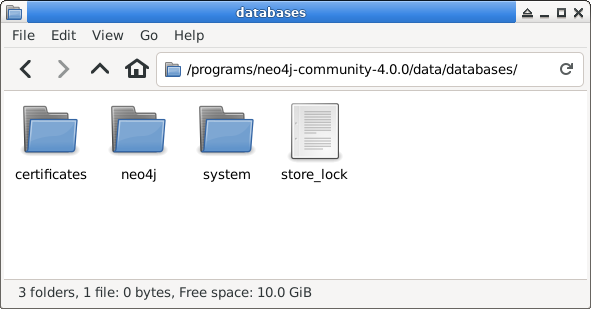
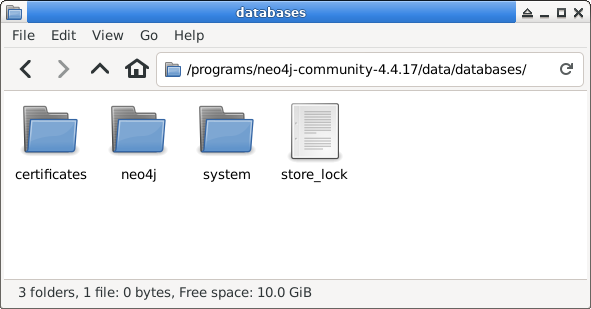
update database migration documentation page, to document the improved steps of the migration process

Changed region(s): [[0.6091, 0.2039, 0.8832, 0.2621]]

diff --git a/admin/en/src/database-migration/README.md b/admin/en/src/database-migration/README.md
@@ -17,12 +17,31 @@ The focus will be on the **sequential migration** process available for the comm
 
 Following the sequential patch migrate Neo4j deployment from 3.5.lastest to 4.0.lastest then sequentially upgrade it to 4.1.lastest, 4.2.lastest, 4.3.lastest and 4.4.lastest
 
-#### Migration from Neo4j 3.5.5 to 3,5,12
+#### Migration from Neo4j 3.5.5 to 3.5.12
 
 During the migration process, we will work with the following directories:
 
 - **`$Neo4j_HOME`**: Refers to the directory of the currently installed Neo4j version (e.g., version 3.5.5).
 - **`$New_Neo4j_HOME`**: Refers to the directory of the new Neo4j version to which the system will be upgraded (e.g., version 3.5.12).
+
+
+##### Prepare Neo4j database 3.5.5
+
+Debido a incompatibilidades en el proveedor de indices de Neo4j entre las versiones 3.5.5 y 3.5.12, antes de realizar la migración los indices deben ser eliminados y creados nuevamente una vez realice la migración para ello verifique los indices actuales. Inicie neo4j server running the following command: (**$Neo4j_HOME/bin/neo4j start**). This command starts the neo4j server, the server will be accessible at [http://localhost:7474](http://localhost:7474). 
+
+En la consola de Neo4j ejecute el comando *:schema*, el cual le permitirá visualizar los indices actualmente creados en la base de datos.
+
+| ![Show Index](images/show-index-v3.png) |
+|:--:|
+| ***Figure 1.** Show Index command* |
+
+Realice una copia de los indices actuales y preceda a eliminarlos ejecutando el comando 
+**DROP INDEX ON :**`node_label`**(**`property`**)**;
+
+Por ejemplo para eliminar el indice de la propiedad name del nodo con label clase ejecute
+**DROP INDEX ON :**`classes`**(**`name`**)**
+
+##### Migrate Database
 
 We start the migration from neo4j-community-3.5.5 to 3.5.12, this due to compatibility issues from version 3.3.5 to 4.0.0.
 
@@ -32,18 +51,16 @@ We start the migration from neo4j-community-3.5.5 to 3.5.12, this due to compati
 2. **Install Neo4j Community Version 3.5.12**  
    Download and install [Neo4j Community 3.5.12](https://neo4j.com/download-thanks/?edition=community&release=3.5.12&flavour=unix&_gl=1*1d1w708*_ga*NzMzOTU0MDMwLjE2MzE3MTkwODQ.*_ga_DL38Q8KGQC*MTY2MDE2MTI3MS4yNi4xLjE2NjAxNjE2MDEuMA..&_ga=2.67751121.1383424675.1660148212-733954030.1631719084).
    
-
 3. **Copy and Replace the Data Folder**  
    - Take the entire contents of the `data` folder (including the `databases` and `dbms` directories) from `$Neo4j_HOME/data`.  
    - Copy these contents and paste them into the `$New_Neo4j_HOME/data` folder, replacing all its contents.
 
 4. **Rename the Database Folder**  
-   Rename your database folder to `graph.db` within `$New_Neo4j_HOME/data/databases/` seen in Figure 1 .
+   Rename your database folder to `graph.db` within `$New_Neo4j_HOME/data/databases/` seen in Figure 2.
     
-| ![Manage Pools](images/databases.png) |
+| ![Manage database dir](images/databases.png) |
 |:--:|
-| ***Figure 1.** Replace and rename database* |
-
+| ***Figure 2.** Replace and rename database* |
 
 5. **Prepare the neo4j.conf** 
    In the file `neo4j.conf` into the (**$New_Neo4j_HOME/conf**) uncomment the next lines:
@@ -53,30 +70,30 @@ We start the migration from neo4j-community-3.5.5 to 3.5.12, this due to compati
 6. **Start migration** 
   Start the migration process by running the following command: (**$New_Neo4j_HOME/bin/neo4j console**). This command starts the database migration process and launches the Neo4j server. Once complete, the server will be accessible at [http://localhost:7474](http://localhost:7474).  
 
-| ![Manage Pools](images/finish-upgrade.png) |
+| ![Migrate process](images/finish-upgrade.png) |
 |:--:|
-| ***Figure 2.** Migration process* |
+| ***Figure 3.** Migration process* |
 
 7. **Stop the server**
    Stop the server to continue the migration (Ctrl + C ).
 
 #### Migration from 3.5.12 to 4.4.17
 
-Once the database has been migrated to version 3.5.12, it is possible to migrate to version 4.0.0
+Once the database has been migrated to version 3.5.12, it is possible to migrate to version 4.4.17
 
-> **Note**: Before preparing for migration, it is essential to verify that Java 11 is installed. While Neo4j 3.5.x uses Java 8, upgrading to version 4.0.x requires Java 11 as a mandatory prerequisite.
+> **Note**: Before preparing for migration, it is essential to verify that Java 11 is installed. While Neo4j 3.5.x uses Java 8, upgrading to version 4.x.x requires Java 11 as a mandatory prerequisite.
 
 During the migration process, we will work with the following directories:
 
 - **`$Neo4j_HOME`**: Refers to the directory of the currently installed Neo4j version (e.g., version 3.5.12).
-- **`$New_Neo4j_HOME`**: Refers to the directory of the new Neo4j version to which the system will be upgraded (e.g., version 4.0.0).
+- **`$New_Neo4j_HOME`**: Refers to the directory of the new Neo4j version to which the system will be upgraded (e.g., version 4.4.17).
 
 
 1. **Backup Current Database Files**  
    Create a backup of your current database files located in `$Neo4j_HOME/data`.
 
-2. **Install Neo4j Community Version 4.0.0**  
-   Download and install [Neo4j Community 4.0.0](https://neo4j.com/download-thanks/?edition=community&release=4.0.0&flavour=unix&_gl=1*1d1w708*_ga*NzMzOTU0MDMwLjE2MzE3MTkwODQ.*_ga_DL38Q8KGQC*MTY2MDE2MTI3MS4yNi4xLjE2NjAxNjE2MDEuMA..&_ga=2.67751121.1383424675.1660148212-733954030.1631719084).
+2. **Install Neo4j Community Version 4.4.17**  
+   Download and install [Neo4j Community 4.4.17](https://neo4j.com/download-thanks/?edition=community&release=4.4.17&flavour=unix&_gl=1*1d1w708*_ga*NzMzOTU0MDMwLjE2MzE3MTkwODQ.*_ga_DL38Q8KGQC*MTY2MDE2MTI3MS4yNi4xLjE2NjAxNjE2MDEuMA..&_ga=2.67751121.1383424675.1660148212-733954030.1631719084).
    
 
 3. **Copy and Replace the Data Folder**  
@@ -84,11 +101,11 @@ During the migration process, we will work with the following directories:
    - Copy these contents and paste them into the `$New_Neo4j_HOME/data` folder, replacing all its contents.
 
 4. **Rename the Database Folder** 
-   Rename your database folder to `neo4j` within `$New_Neo4j_HOME/data/databases/` From this new version onwards we have the concept of multi databases and `graph.db` is not a valid name, the databases have to follow a naming convention and can not contain special characters including dots as seen in Figurw 3. 
+   Rename your database folder to `neo4j` within `$New_Neo4j_HOME/data/databases/` From this new version onwards we have the concept of multi databases and `graph.db` is not a valid name, the databases have to follow a naming convention and can not contain special characters including dots as seen in Figure 4. 
 
 | ![Manage Pools](images/database-v4.png) |
 |:--:|
-| ***Figure 3.** New format databases* |
+| ***Figure 4.** New format databases* |
 
 5. **Prepare the neo4j.conf** 
    In the file `neo4j.conf` into the (**$New_Neo4j_HOME/conf**) uncomment the next lines:
@@ -101,43 +118,11 @@ During the migration process, we will work with the following directories:
 7. **Stop the server** 
    Stop the server to continue the migration (Ctrl + C ).
  
-Once the migration to version 4.0.0 is complete, it is essential to follow a sequential migration path to avoid potential issues. This process involves upgrading through intermediate versions step by step, repeating steps 1 to 7 after each upgrade. The recommended sequential migration path is outlined below:
-
-> **Note**: Starting from version 4.0.0, the default database name must be **neo4j**. Ensure that the database name is correctly set before proceeding with the migration to avoid compatibility issues.
-
-1. **Neo4j 4.0.0 → Neo4j 4.1.12**
-   - Download [Neo4j 4.1.12.](https://neo4j.com/download-thanks/?edition=community&release=4.1.12&flavour=unix&_gl=1*1d1w708*_ga*NzMzOTU0MDMwLjE2MzE3MTkwODQ.*_ga_DL38Q8KGQC*MTY2MDE2MTI3MS4yNi4xLjE2NjAxNjE2MDEuMA..&_ga=2.67751121.1383424675.1660148212-733954030.1631719084)
-   - Repeat steps 1 to 7.
-   - Completed the migration to version 4.1.12.  
-
-2. **Neo4j 4.1.12 → Neo4j 4.2.19**
-   - Download [Neo4j 4.2.19.](https://neo4j.com/download-thanks/?edition=community&release=4.2.19&flavour=unix&_gl=1*1d1w708*_ga*NzMzOTU0MDMwLjE2MzE3MTkwODQ.*_ga_DL38Q8KGQC*MTY2MDE2MTI3MS4yNi4xLjE2NjAxNjE2MDEuMA..&_ga=2.67751121.1383424675.1660148212-733954030.1631719084)
-   - Repeat steps 1 to 7.
-   - Completed the migration to version 4.2.19.
-
-3. **Neo4j 4.2.19 → Neo4j 4.3.12**
-   - Download [Neo4j 4.3.12.](https://neo4j.com/download-thanks/?edition=community&release=4.3.12&flavour=unix&_gl=1*1d1w708*_ga*NzMzOTU0MDMwLjE2MzE3MTkwODQ.*_ga_DL38Q8KGQC*MTY2MDE2MTI3MS4yNi4xLjE2NjAxNjE2MDEuMA..&_ga=2.67751121.1383424675.1660148212-733954030.1631719084)
-   - Repeat steps 1 to 7.
-   - Completed the migration to version 4.3.12.
-
-4. **Neo4j 4.3.12 → Neo4j 4.4.10**
-   - Download [4.4.10.](https://neo4j.com/download-thanks/?edition=community&release=4.4.10&flavour=unix&_gl=1*1d1w708*_ga*NzMzOTU0MDMwLjE2MzE3MTkwODQ.*_ga_DL38Q8KGQC*MTY2MDE2MTI3MS4yNi4xLjE2NjAxNjE2MDEuMA..&_ga=2.67751121.1383424675.1660148212-733954030.1631719084)
-   - Repeat steps 1 to 7.
-   - Completed the migration to version 4.4.10
-
-5. **Neo4j 4.4.10 → Neo4j 4.4.17**
-   - Download [4.4.17.](https://neo4j.com/download-thanks/?edition=community&release=4.4.17&flavour=unix&_gl=1*1d1w708*_ga*NzMzOTU0MDMwLjE2MzE3MTkwODQ.*_ga_DL38Q8KGQC*MTY2MDE2MTI3MS4yNi4xLjE2NjAxNjE2MDEuMA..&_ga=2.67751121.1383424675.1660148212-733954030.1631719084)
-   - Repeat steps 1 to 7 one last time.
-   - Completed the migration to version 4.4.17.
-
-
-By following this sequential migration process and repeating steps 1 to 8 at each stage, you can ensure a smooth transition to Neo4j version 4.4.17 without encountering migration errors.
-
-Finally we will have migrated from Neo4j 3.5.5 to 4.4.17, to run the server use (**$New_Neo4j_HOME/bin/neo4j start**).
+Once complete, run the server use (**$New_Neo4j_HOME/bin/neo4j start**).
 
 | ![Manage Pools](images/neo4j-server-v4.png) |
 |:--:|
-| ***Figure 4.** Neo4j server version 4.4.17* |
+| ***Figure 5.** Neo4j server version 4.4.17* |
 
 ## Upgrading Database from Neo4j 4.4.17 to 5.26.1
 
@@ -163,7 +148,7 @@ During the migration process, we will work with the following directories:
 Before performing the migration, it is necessary to make changes to the database to ensure compatibility with Neo4j 5.
 
 ##### Create Index
-Since the index system used in the major versions of Neo4j has been modified in version 5.x.x, it is necessary to create new indexes for each of the currently existing indexes in the database. 
+Since the index system used in the major versions of Neo4j has been modified in version 5.x.x, it is necessary to create new indexes for those previously removed in [prepare database 3.5.5.](#prepare-neo4j-database-355)
 In Neo4j versions 4.1.x, the indexes are of type BTREE, which has been replaced in version 5.x.x with RANGE, POINT, and TEXT types.
 
 * **Range indexes**: Neo4j’s default index. Supports most types of predicates.
@@ -172,11 +157,11 @@ In Neo4j versions 4.1.x, the indexes are of type BTREE, which has been replaced 
 * **Token lookup indexes**: only solves node label and relationship type predicates (i.e. they cannot solve any predicates filtering on properties). Two token lookup indexes (one for node labels and one for relationship types) are present when a database is created in Neo4j.
 
 Start the process by checking the current indexes in the database using the Neo4j console, run (**$Neo4j_HOME/bin/neo4j start**) and use the (**SHOW INDEXES**) command. 
-This command will display the existing indexes as seen in the Figure 5. Review this information and create the new indexes according to their respective types.
+This command will display the existing indexes as seen in the Figure 6. Review this information and create the new indexes according to their respective types.
 
 | ![Manage Pools](images/show-index.png) |
 |:--:|
-| ***Figure 5.** SHOW INDEXES Command* |
+| ***Figure 6.** SHOW INDEXES Command* |
 
 To create indexes in the Neo4j console, use the following command:
 **CREATE `index_type` INDEX `new_index_name` FOR (`n:label`) ON (`n.property`)**
@@ -205,9 +190,9 @@ Starting from version 5.x.x, it is possible to migrate the Neo4j configuration f
 
 | ![Manage Pools](images/migrate-neo4j-4-conf-to-5.png) |
 |:--:|
-| ***Figure 6.** Migrate configuration command* |
+| ***Figure 7.** Migrate configuration command* |
 
-Once the configuration migration is complete as seen in Figure 6, the default configuration of Neo4j 5 will be saved in `New_Neo4j_HOME/conf/neo4j.conf.old` in case you wish to restore it.
+Once the configuration migration is complete as seen in Figure 7, the default configuration of Neo4j 5 will be saved in `New_Neo4j_HOME/conf/neo4j.conf.old` in case you wish to restore it.
 
 Verify that in `New_Neo4j_HOME/conf` the file `neo4j.conf` has the following configuration or else add it:
 * `Uncomment and set dbms.allow_upgrate=true`
@@ -229,9 +214,9 @@ If additional configurations are required for the migration, refer to the option
 
 | ![Manage Pools](images/error-format-database.png) |
 |:--:|
-| ***Figure 7.** Warning migrating database* |
+| ***Figure 8.** Warning migrating database* |
 
-When migrating the database as seen in Figure 7, a warning will appear indicating that the **storage format** is deprecated. This is because, starting with Neo4j version 5.x.x, the storage format was changed. However, the format change is not possible directly from version 4.4.x, as this update was introduced in later versions.
+When migrating the database as seen in Figure 8, a warning will appear indicating that the **storage format** is deprecated. This is because, starting with Neo4j version 5.x.x, the storage format was changed. However, the format change is not possible directly from version 4.4.x, as this update was introduced in later versions.
 
 ##### Chance Store Format
 The storage format describes how information is written to disk. Starting with version 5.x.x, the supported formats include `block`, `aligned`, `standard` and `high_limit`. For the **Community edition of Neo4j**, the recommended format is **aligned**, so we will proceed to change it. Before doing so, you can check the current database format in version 4.4.x using the following command:
@@ -240,12 +225,12 @@ The storage format describes how information is written to disk. Starting with v
 
 | ![Manage Pools](images/store-format.png) |
 |:--:|
-| ***Figure 8.** Neo4j 4.4.17 store format* |
+| ***Figure 9.** Neo4j 4.4.17 store format* |
 
 
-As can be seen in Figure 8, the storage format in version 4.4.17 is `SF4.3.0`, not compatible with 5.xx, we proceed to change the format with:
+As can be seen in Figure 9, the storage format in version 4.4.17 is `SF4.3.0`, not compatible with 5.xx, we proceed to change the format with:
 
-**`New_Neo4j_HOME/bin/ddneo4j-admin` database migrate --to-format=**`store_format data_base_name`
+**`New_Neo4j_HOME/bin/neo4j-admin` database migrate --to-format=**`store_format data_base_name`
 
 In this example:
 
@@ -253,10 +238,10 @@ In this example:
 
 | ![Manage Pools](images/migration-done.png) |
 |:--:|
-| ***Figure 9.** Migrate completed* |
+| ***Figure 10.** Migrate completed* |
 
-As shown in Figure 9, this concludes the migration process from Neo4j 4.4.17 to 5.26.1. To run the server, use the following command: **`$New_Neo4j_HOME/bin/neo4j start`**
+As shown in Figure 10, this concludes the migration process from Neo4j 4.4.17 to 5.26.1. To run the server, use the following command: **`$New_Neo4j_HOME/bin/neo4j start`**
 
 | ![Manage Pools](images/neo4j-server-v5.png) |
 |:--:|
-| ***Figure 10.** Warning migrating database* |
+| ***Figure 11.** Warning migrating database* |
